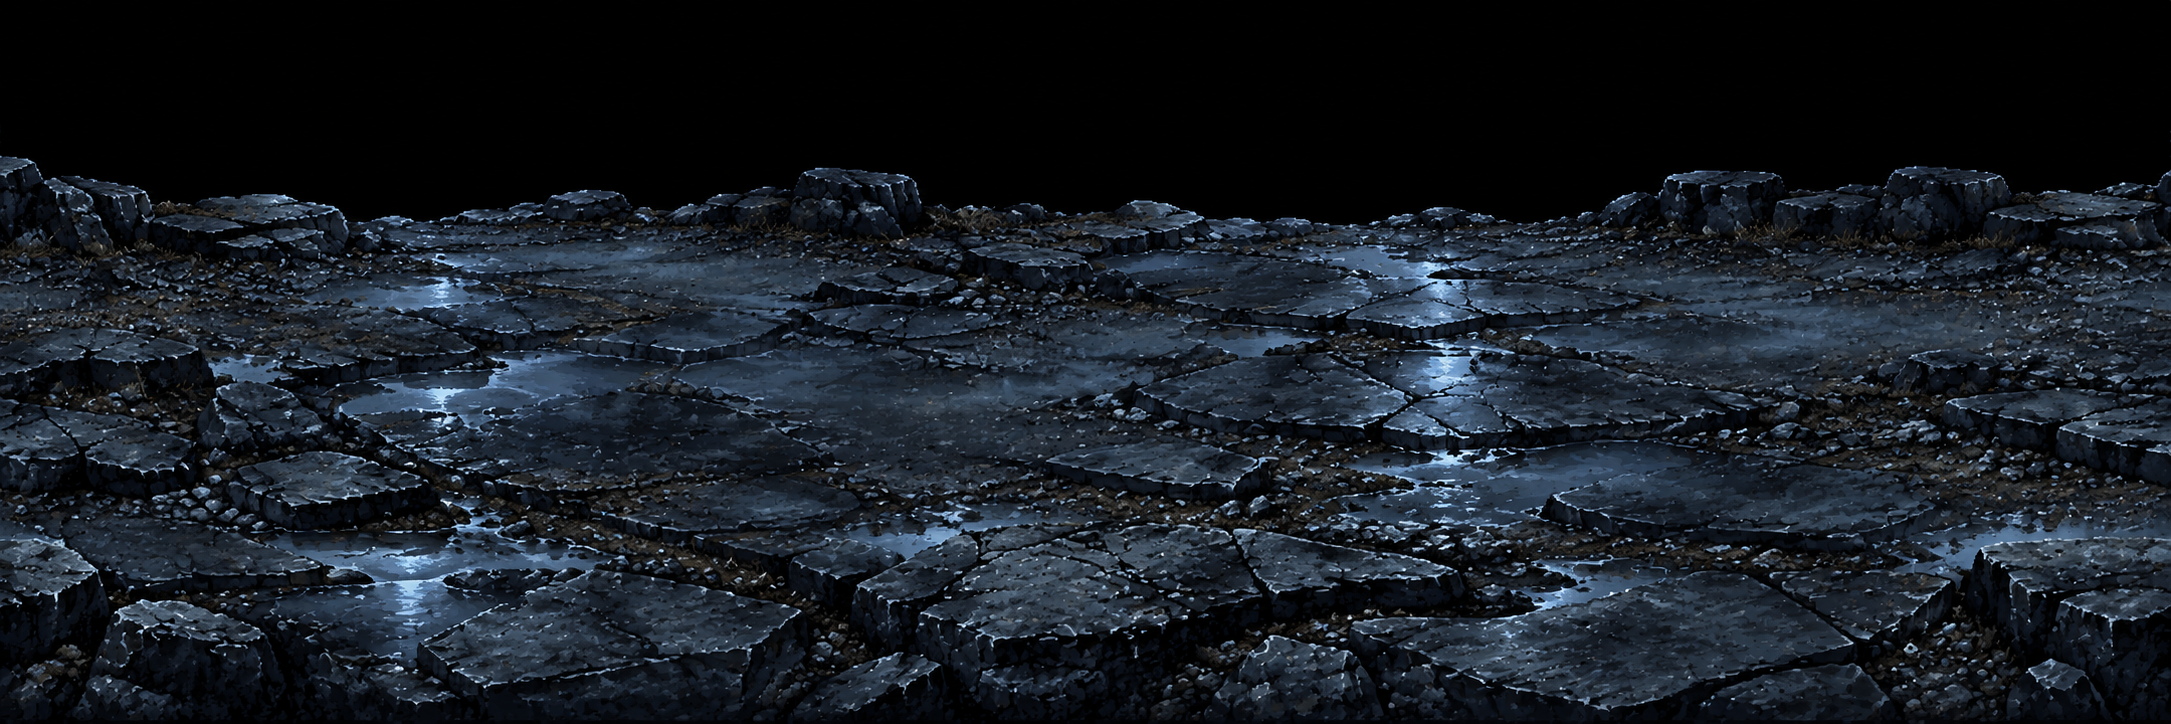
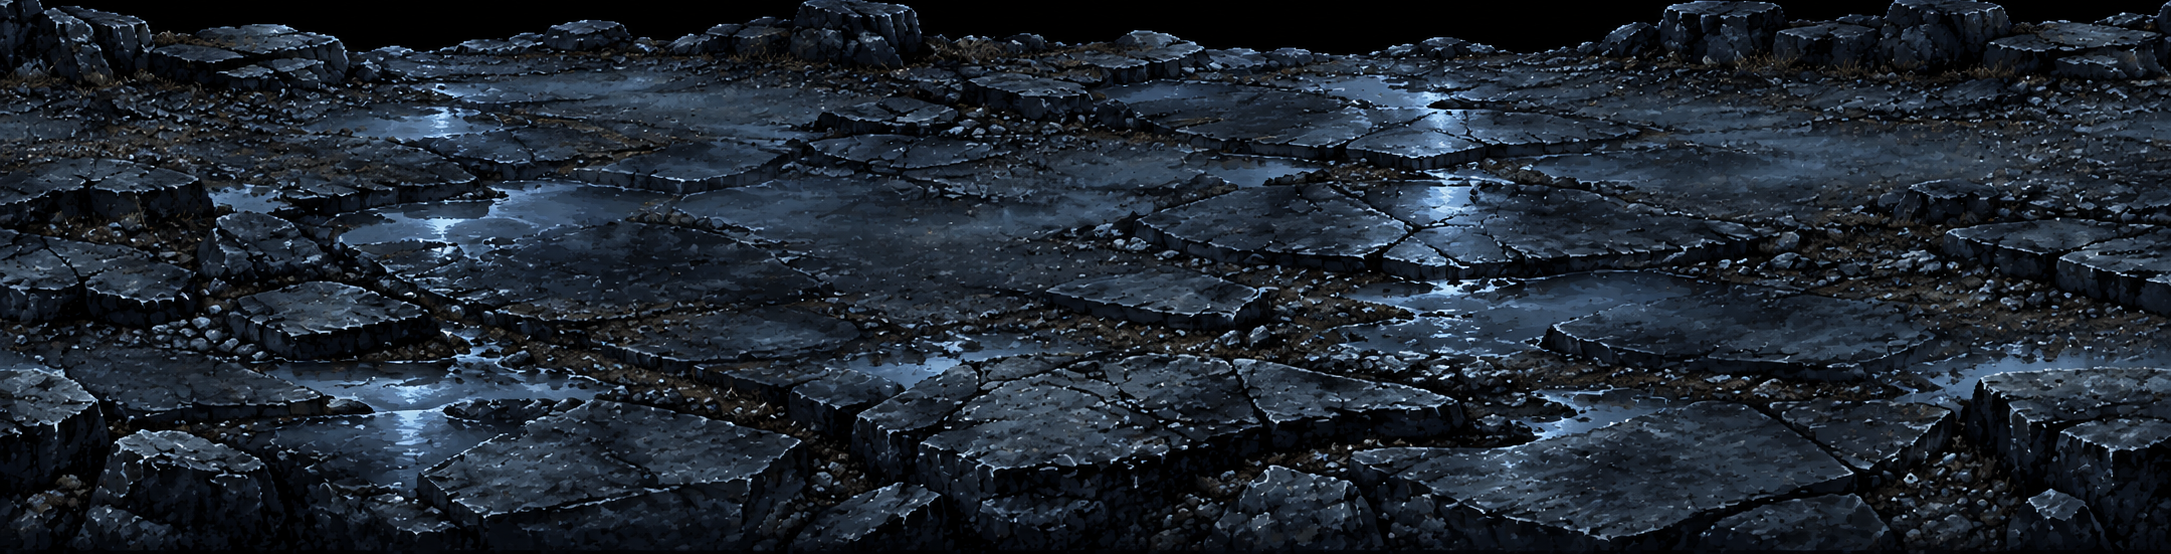
Gallows floor: crop the black band off the top of the painted ground; handoff note
Claude-Session: https://claude.ai/code/session_01WSv9KWGp8Whjmz2wi13H1K

diff --git a/docs/cloud-handoff.md b/docs/cloud-handoff.md
@@ -664,3 +664,6 @@ crispness, not size). Nothing has been run through Magnific yet; start with the 
 - **Checked:** `tools/strip-check.html?id=orsk` and `?id=twin` show every strip split into the right number of poses. The Gallows pictures weren't looked at in the level. `npm test` not run (no Node on the PC). Not watched in a fight.
 - **Skipped:** the optional `orsk_`/`twin_` jump and drop strips (not in this pass). The Twins came out dark iron with warm torchlight rather than pure cold grey.
 - **For the cloud:** the kneel scale note from 12 October applies to `orsk_kneel` and `twin_kneel` too. `surf_rock_top.png` shows a strip of the ledge's front face along its near edge.
+
+## Cloud, 2026-10-15: second ChatGPT batch checked (not on itch)
+- Orsk's and the Gate Twins' strips (76318a4) cut cleanly in `tools/strip-check.html` at their kinds' size; tests pass. `assets/env/gallows/ground.png` had a 170 px pure-black band along its top (ChatGPT's empty "far edge"); cropped off so the floor starts at the slate. The Gallows layers have their magenta skylines; not yet seen inside the level (the headless browser still can't boot the game in time).
